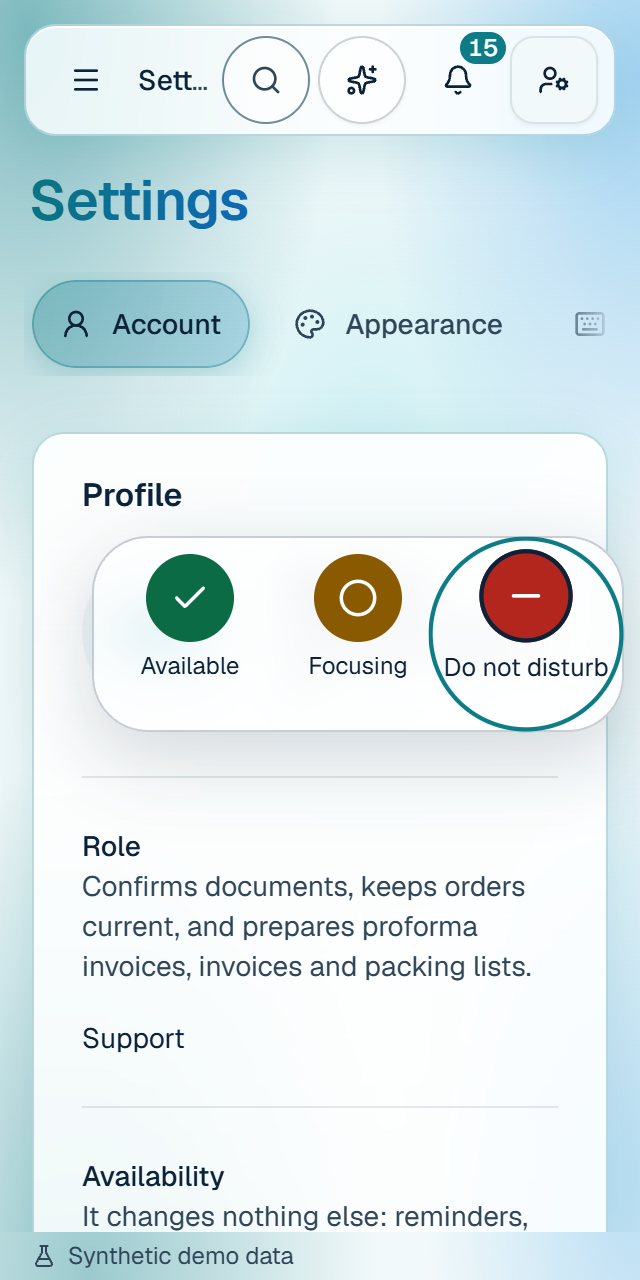
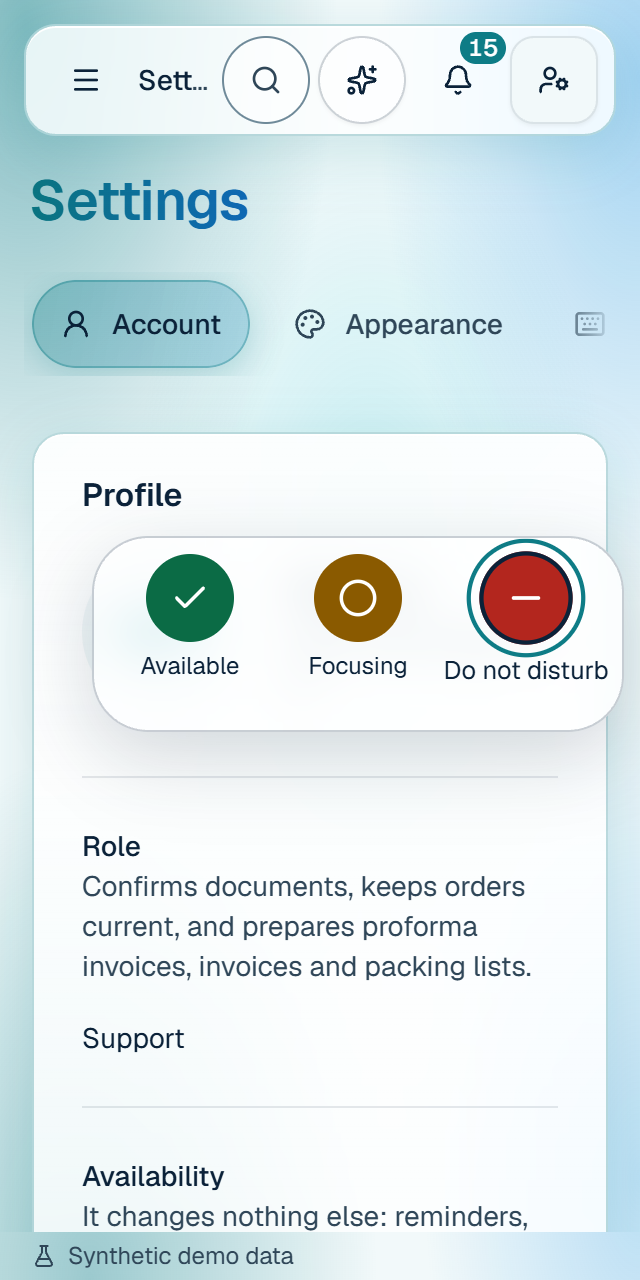
docs: retake the availability pictures from the build of the polished code
The strip now shows the pop, and its README names the click pulse.

Changed region(s): [[0.6562, 0.4062, 1.0, 0.5625], [0.75, 0.5625, 0.875, 0.5938]]

diff --git a/docs/design/screenshots/platform/availability/README.md b/docs/design/screenshots/platform/availability/README.md
@@ -1,6 +1,6 @@
 # Availability on the avatar: screenshots
 
-Taken on 25 Nov 2026 from a Docker build of this branch at commit 6e57fb81 (the review site, `http://localhost:4472`, fresh synthetic data), in Microsoft Edge with motion on, at a device scale factor of 2 (the two phone pictures are whole screens, the others are crops). Everything is "Synthetic demo data". Every account was put back to Available afterwards.
+Taken on 26 Nov 2026 from a Docker build of this branch at commit 504c7491 (the review site, `http://localhost:4472`, fresh synthetic data), in Microsoft Edge with motion on, at a device scale factor of 2 (the two phone pictures are whole screens, the others are crops). Everything is "Synthetic demo data". Every account was put back to Available afterwards.
 
 Made by throwaway Playwright scripts that are not kept in the repository. Each picture is taken with the picker opened by the keyboard (Enter) and the pointer parked away, so a mouse is not in the shot; a pill is photographed once its growth has ended (`data-settled`).
 
@@ -17,4 +17,4 @@ Light and dark are two files each: `name-light.png` and `name-dark.png`.
 | `demo-role-menu`                                            | Product manager, Home, the Demo role menu                  | In demo mode a dot and the words "Do not disturb" beside Support, who is on Do not disturb; nothing beside the accounts that are Available.                                                                                                                                                                                                                                                                                                                                                                                                       |
 | `phone-390`                                                 | Support (Do not disturb), 390 px, touch, the phone menu    | The words sit under the round choices, each box is 80 by 80 px, and the pill is inside the screen.                                                                                                                                                                                                                                                                                                                                                                                                                                                |
 | `phone-320`                                                 | Support (Do not disturb), 320 px, touch, Settings, Account | The same at the narrowest screen, opened by a tap on the ring; the pill keeps 8 px to the screen's edge.                                                                                                                                                                                                                                                                                                                                                                                                                                          |
-| `opening-strip-light.png`                                   | Support, Settings, Account, light                          | Six frames of the opening, taken from a recording of Edge: 0, 60, 120, 180, 240 and 300 ms after the press. The ring fades as the pill grows out of its corner, and the caption is in place at the end. The thin circle at the pill's corner in the last three frames is the ring's own face on its way out: the page measures its opacity at 0 within about 160 ms, and a screenshot at 390 ms shows nothing there, so the recording holds it longer than a screen does. The frames are 40 ms apart in the recording and the labels are nominal. |
+| `opening-strip-light.png`                                   | Support, Settings, Account, light                          | Six frames of a warm opening, cut from a recording of Edge at 0, 60, 120, 180, 240 and 300 ms after the press: the ring fades, the pill grows out of its corner, peaks about 6 px past its box at 240 ms and settles. The thin circle at its corner is the app's own click pulse (`apps/web/src/app/ClickPulse.tsx`), drawn at every press: it is not part of the picker and not an artefact. The labels are nominal (the frames are 40 ms apart). The first opening after a page loads pauses about 100 ms first, in the browser's first raster. |
